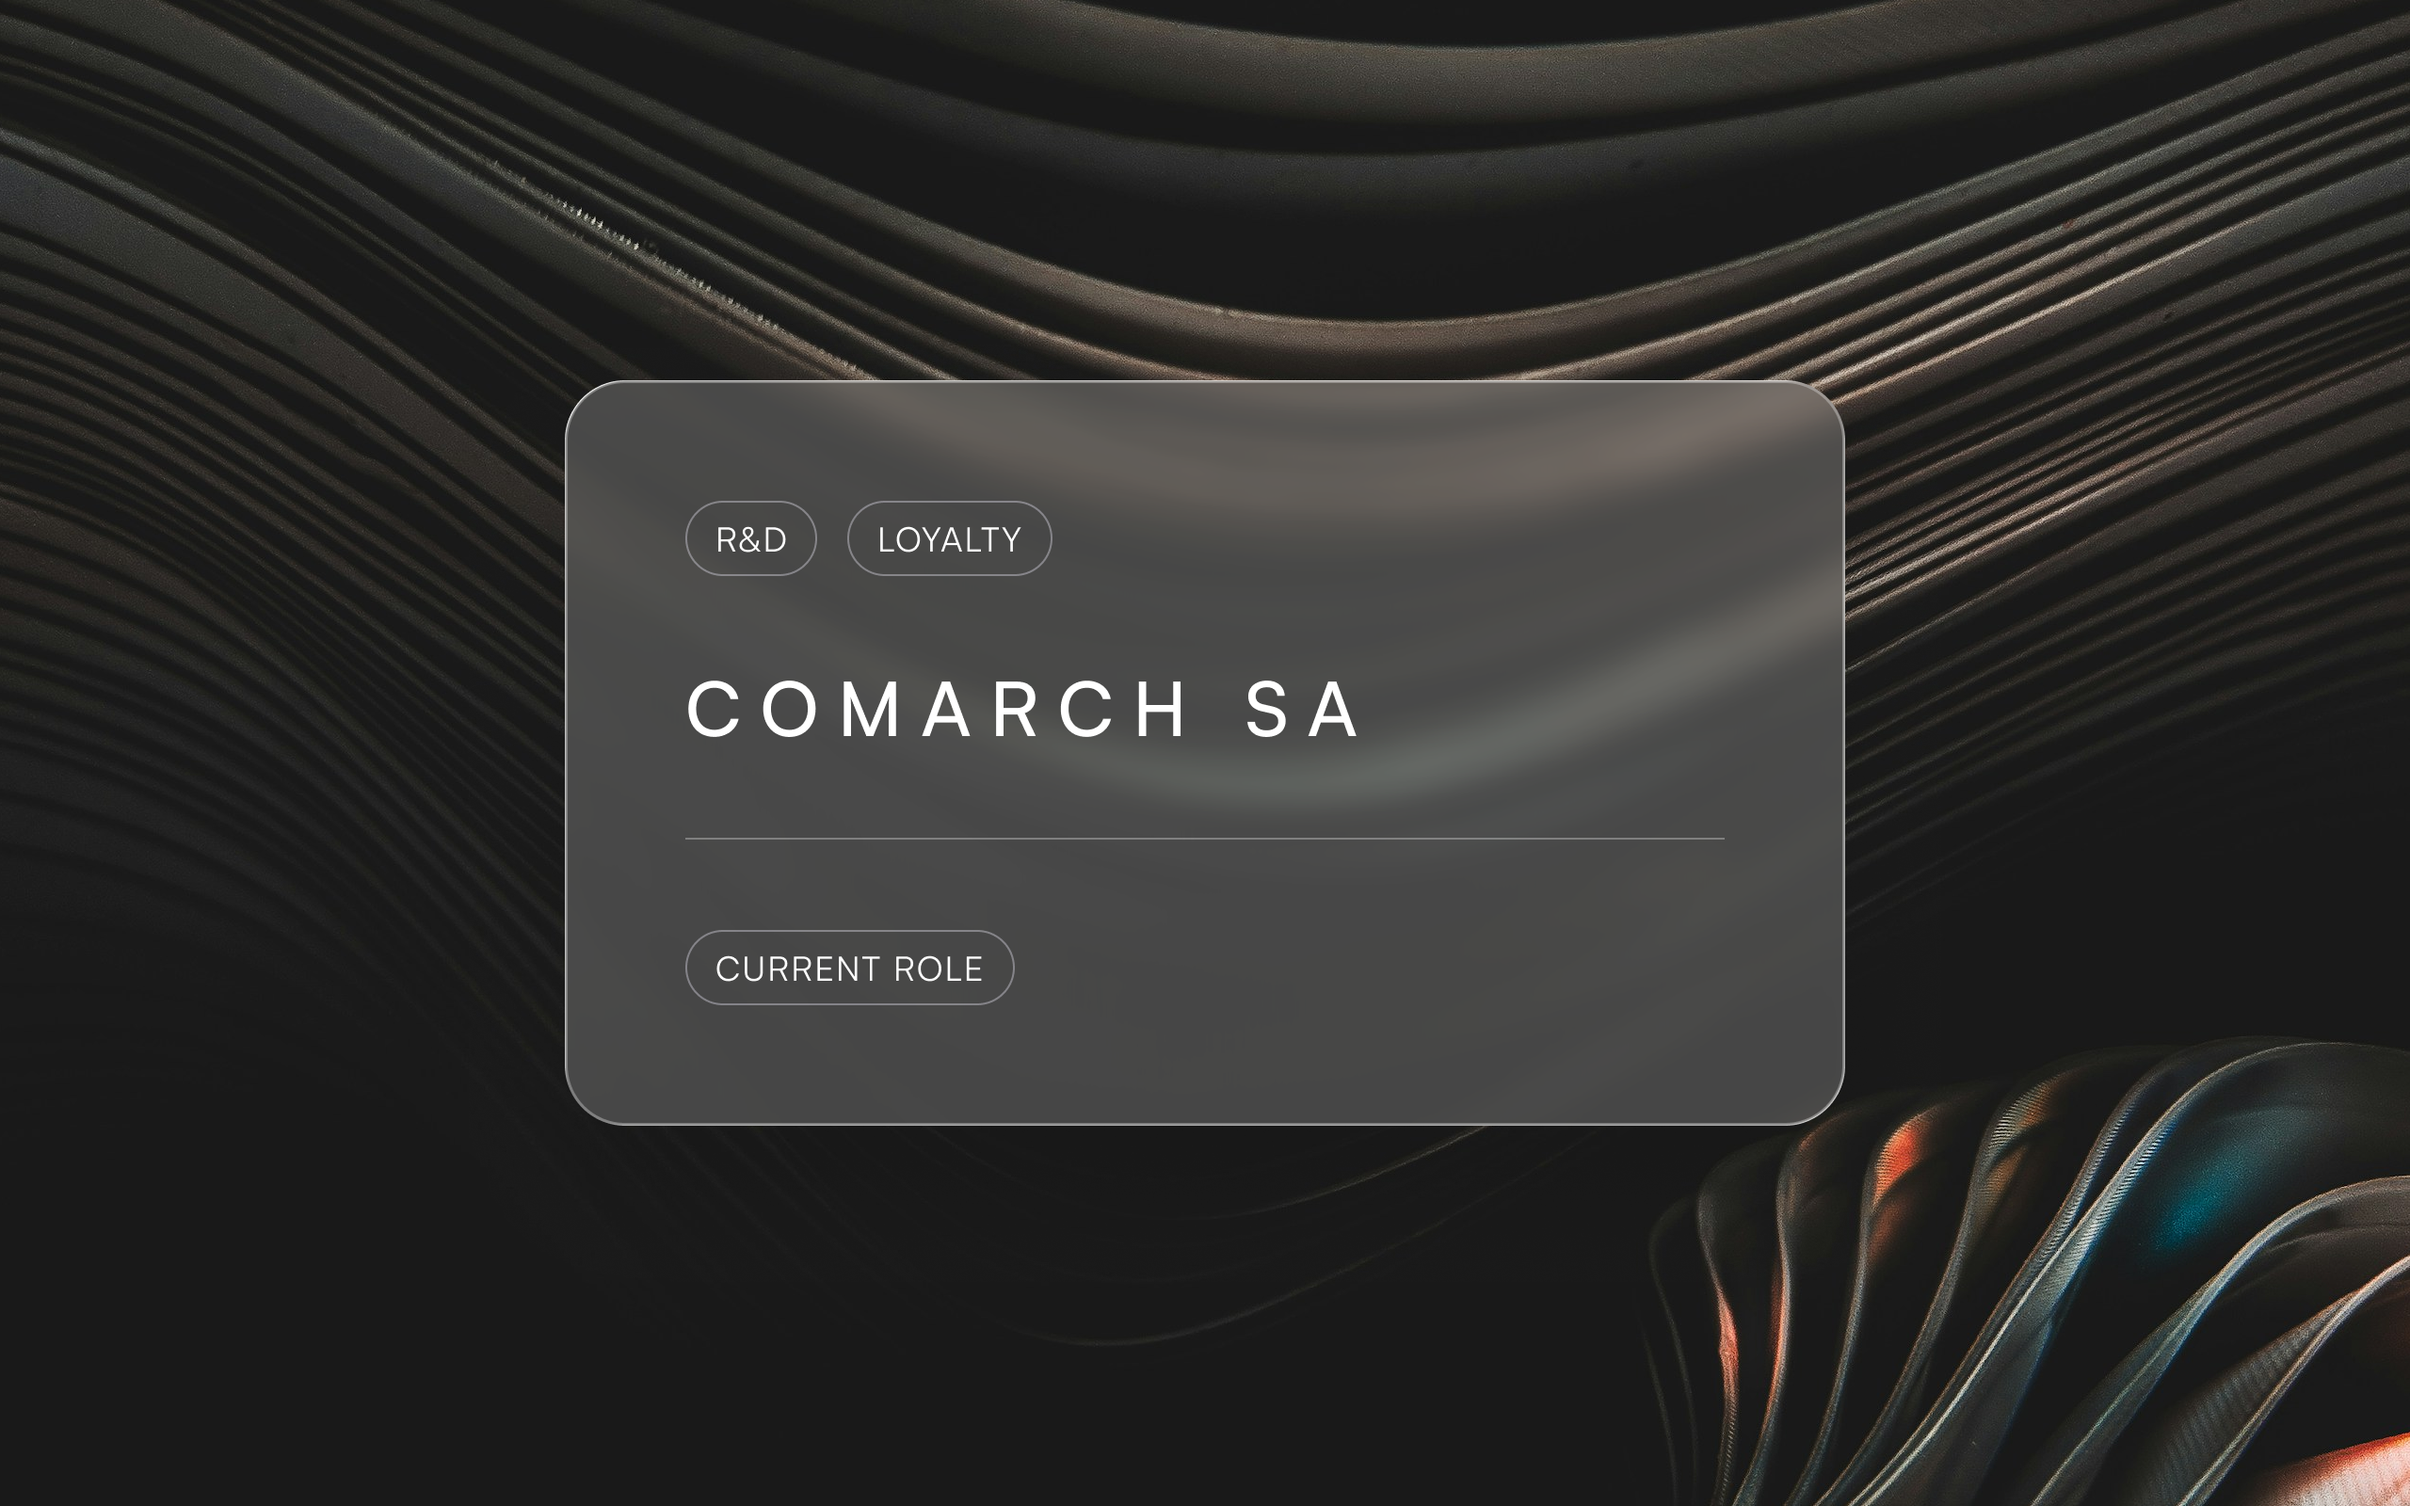
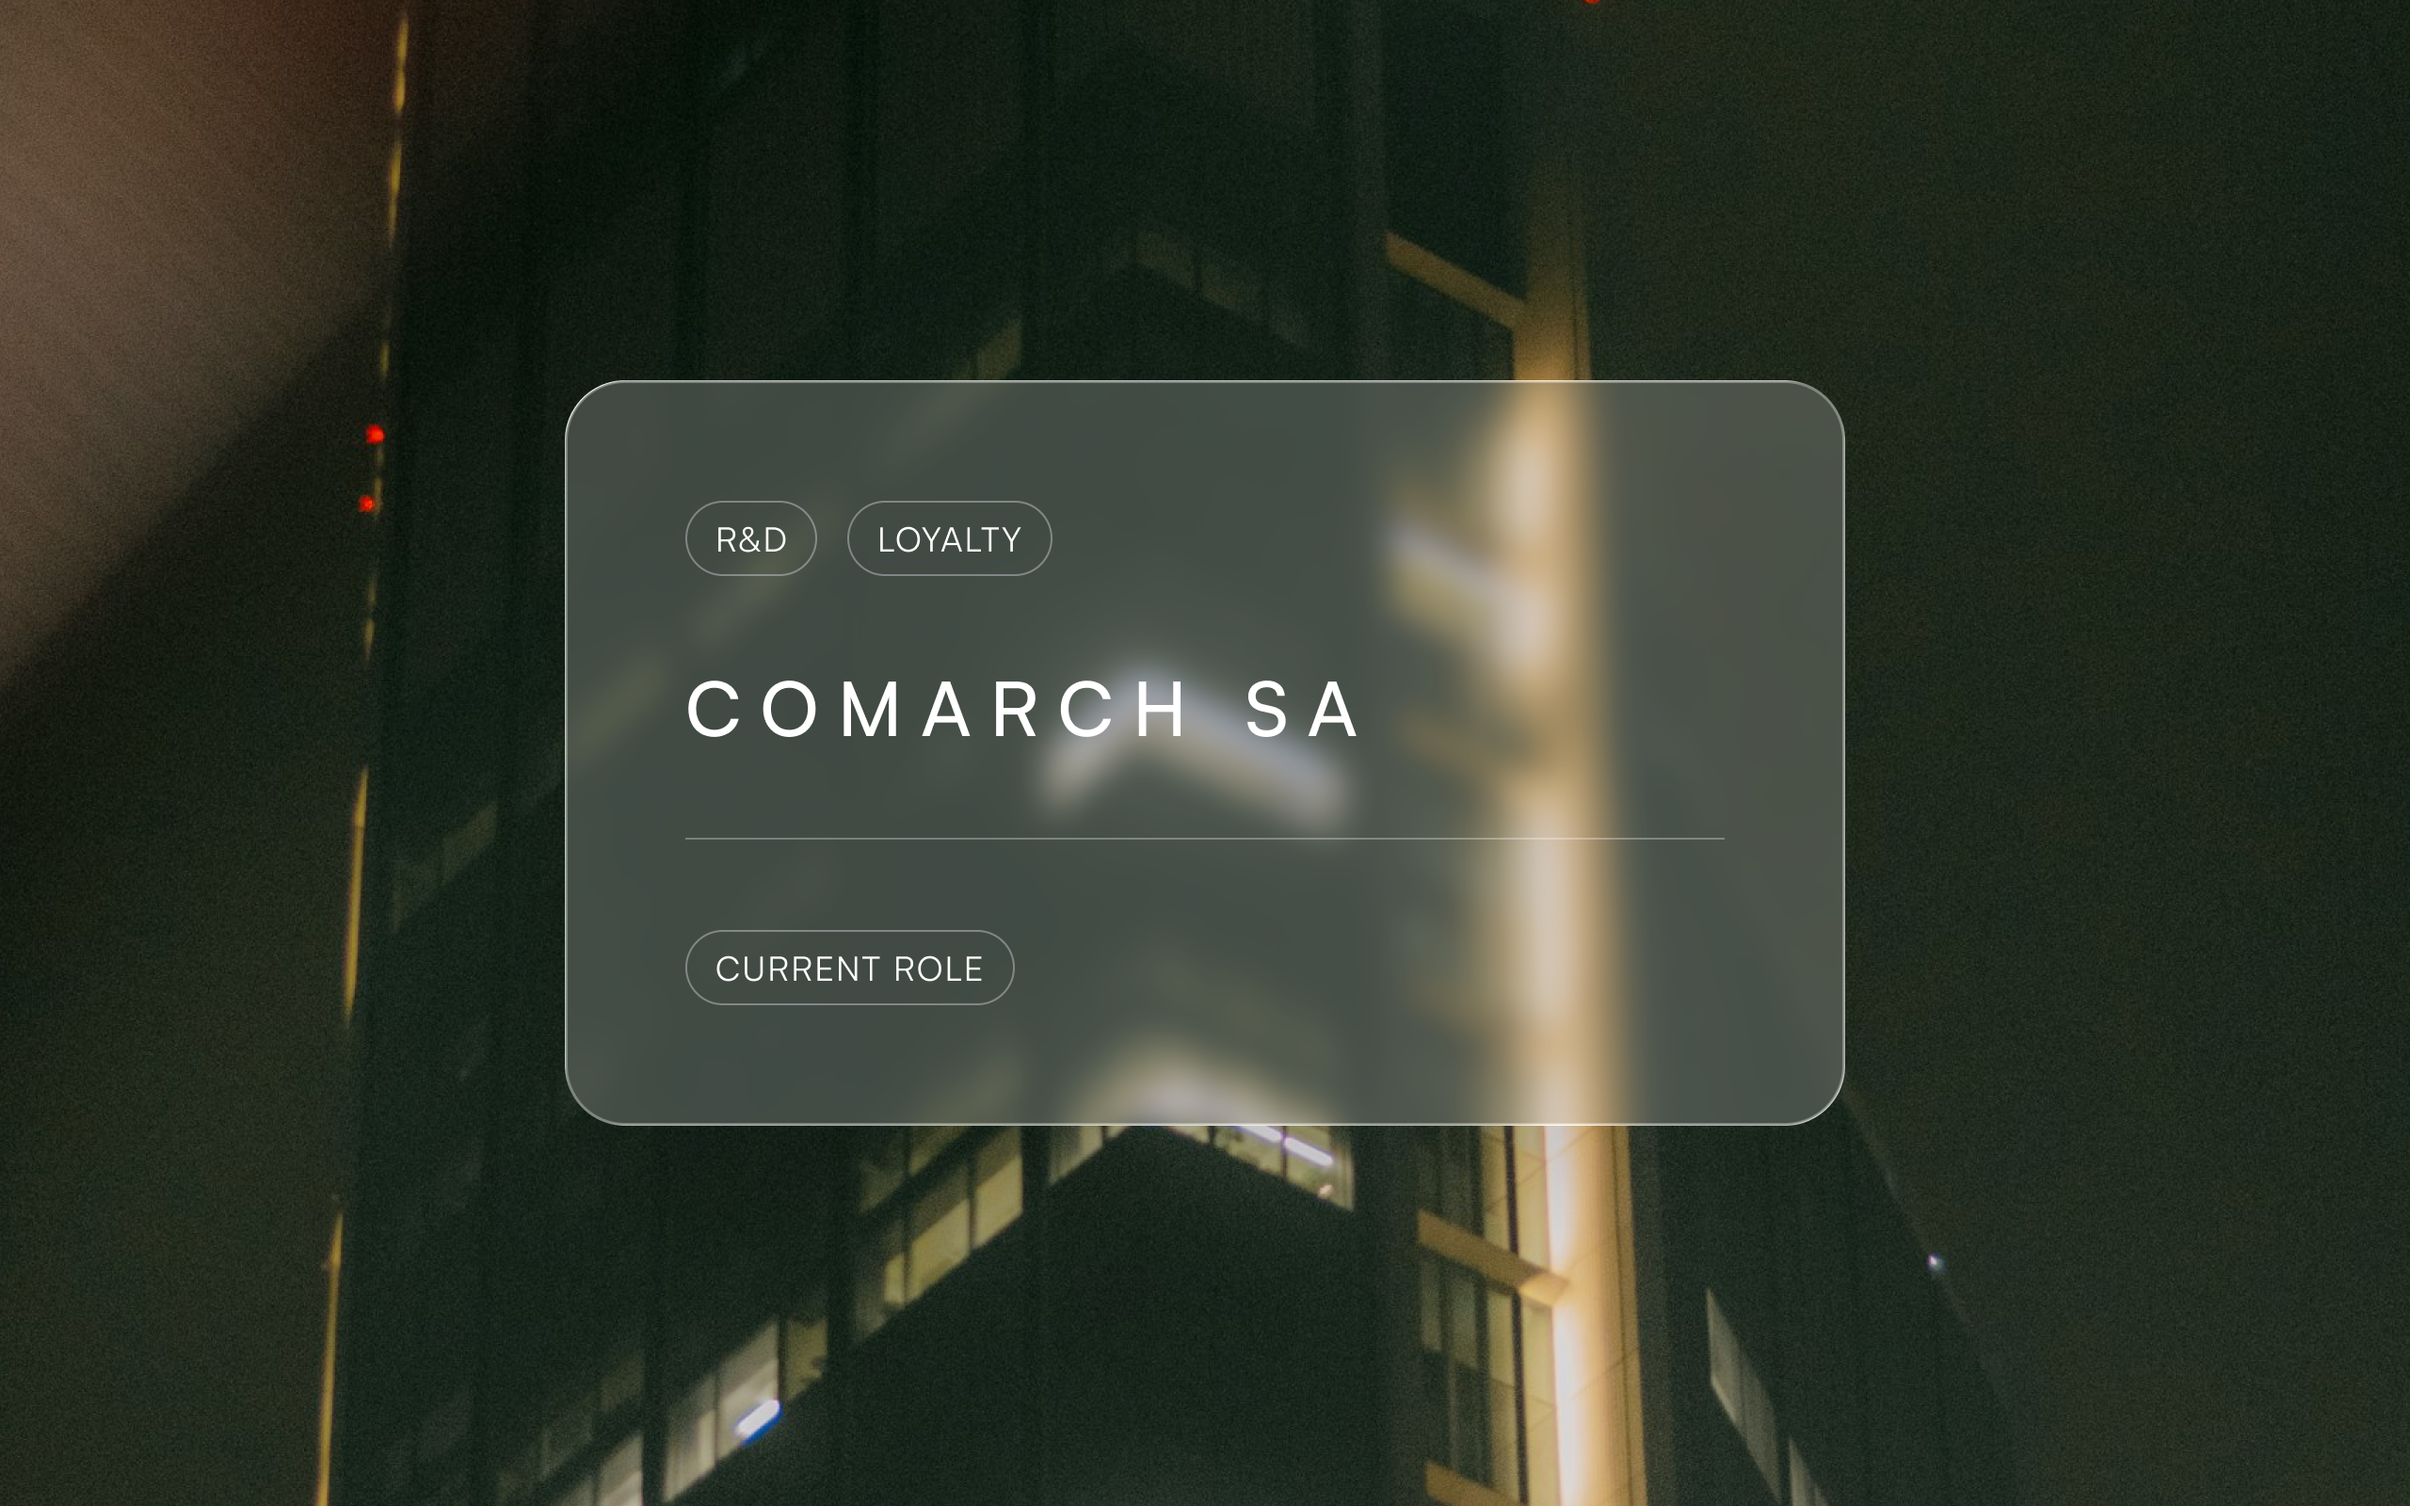
Update Enoterra, Loom, and Comarch homepage cover images.

diff --git a/index.html b/index.html
@@ -169,9 +169,10 @@
 
         <div class="projects-list">
           
+          
           <a class="project-case" href="erp-system-new.html" data-case-label="In implementation">
             <div class="project-case-media">
-              <img class="project-case-cover project-case-cover--cover" src="images/erp-system/hero/dashboard.png?v=7" alt="ENOTERRA ERP SYSTEM — Pulpit dashboard in dark mode" width="2560" height="1600" loading="lazy" decoding="async" />
+              <img class="project-case-cover project-case-cover--cover" src="images/erp-system/hero/dashboard.png?v=8" alt="ENOTERRA ERP SYSTEM — Pulpit dashboard in dark mode" width="2560" height="1600" loading="lazy" decoding="async" />
               <span class="project-case-label">In implementation</span>
             </div>
             <div class="project-case-footer">
@@ -182,7 +183,7 @@
 
           <a class="project-case" href="design-system.html" data-case-label="In progress">
             <div class="project-case-media">
-              <img class="project-case-cover project-case-cover--cover" src="images/design-system/hero/project-cover.png?v=7" alt="Loom Loyalty — Shopify loyalty preview" width="2560" height="1600" loading="lazy" decoding="async" />
+              <img class="project-case-cover project-case-cover--cover" src="images/design-system/hero/project-cover.png?v=8" alt="Loom Loyalty — Shopify loyalty preview" width="2560" height="1600" loading="lazy" decoding="async" />
               <span class="project-case-label">In progress</span>
             </div>
             <div class="project-case-footer">
@@ -204,7 +205,7 @@
 
           <a class="project-case" href="comarch-loyalty.html" data-case-label="Current Role">
             <div class="project-case-media">
-              <img class="project-case-cover project-case-cover--cover" src="images/comarch/comarch.png?v=7" alt="Comarch Loyalty Management — backoffice product overview" width="1400" height="788" loading="lazy" decoding="async" />
+              <img class="project-case-cover project-case-cover--cover" src="images/comarch/comarch.png?v=8" alt="Comarch Loyalty Management — backoffice product overview" width="1400" height="788" loading="lazy" decoding="async" />
               <span class="project-case-label">Current Role</span>
             </div>
             <div class="project-case-footer">
